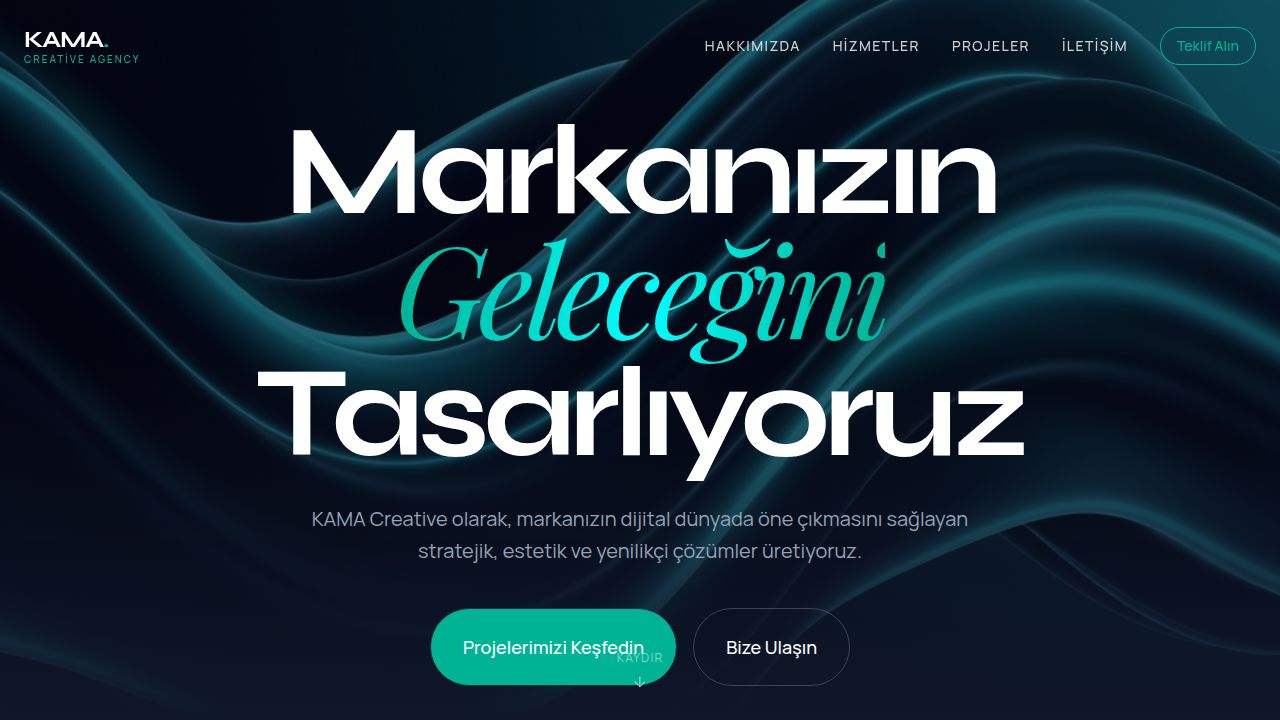
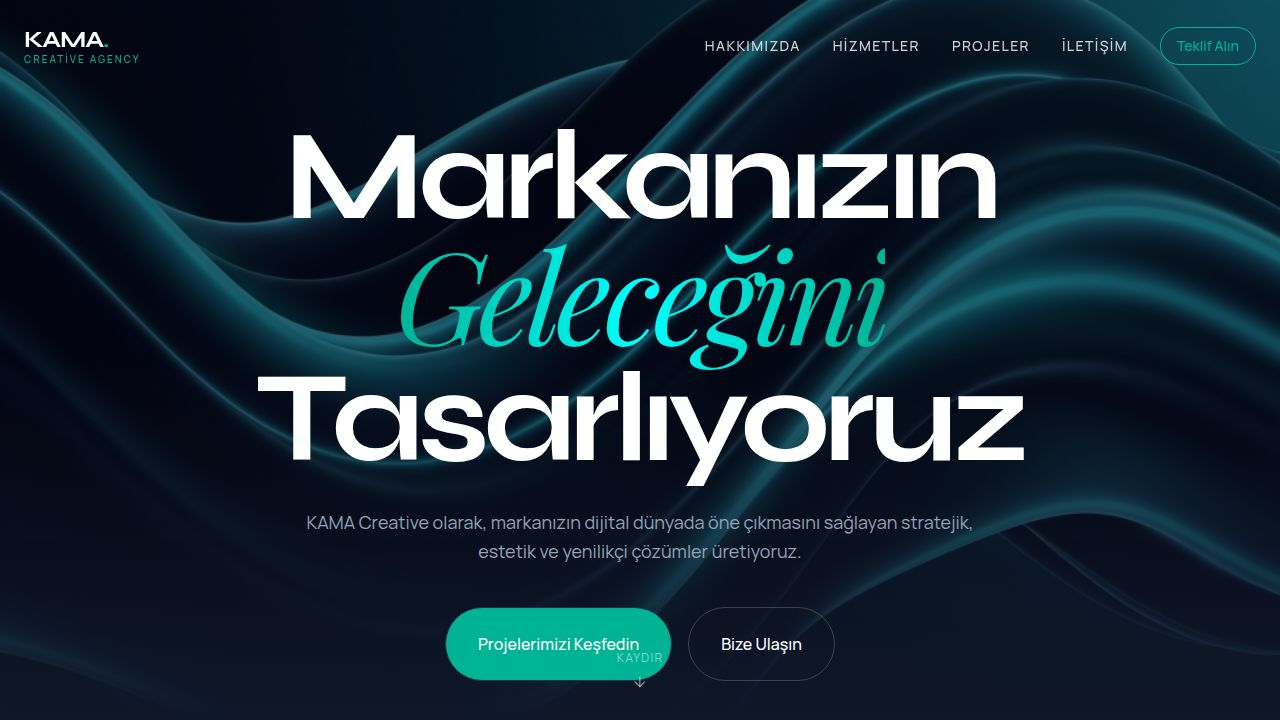
Reduce the size of text in the hero section and buttons
Update paragraph text and button font sizes in the hero section of client/src/components/sections/hero.tsx to improve visual hierarchy.

Replit-Commit-Author: Agent
Replit-Commit-Session-Id: 625a7e5c-b20e-4edc-b66a-3c978ab302cb
Replit-Commit-Checkpoint-Type: full_checkpoint
Replit-Commit-Event-Id: 61ac5a7f-8b92-4610-9608-1e1e1f38b729
Replit-Commit-Screenshot-Url: https://storage.googleapis.com/screenshot-production-us-central1/569067e9-2ef4-4c3d-8651-98e00164b664/625a7e5c-b20e-4edc-b66a-3c978ab302cb/sUQkeYI
Replit-Helium-Checkpoint-Created: true

diff --git a/client/src/components/sections/hero.tsx b/client/src/components/sections/hero.tsx
@@ -31,15 +31,15 @@ export default function Hero() {
               <span className="font-expressive italic font-normal text-gradient-primary">Geleceğini</span> <br />
               Tasarlıyoruz
             </h1>
-            <p className="text-lg md:text-xl text-muted-foreground max-w-2xl mb-10 leading-relaxed text-center">
+            <p className="text-base md:text-lg text-muted-foreground max-w-2xl mb-10 leading-relaxed text-center">
               KAMA Creative olarak, markanızın dijital dünyada öne çıkmasını sağlayan stratejik, estetik ve yenilikçi çözümler üretiyoruz.
             </p>
             
             <div className="flex flex-col sm:flex-row gap-4 justify-center">
-              <Button size="lg" className="rounded-full px-8 py-6 text-lg bg-primary hover:bg-primary/90 text-white font-medium">
+              <Button size="lg" className="rounded-full px-8 py-6 text-base bg-primary hover:bg-primary/90 text-white font-medium">
                 Projelerimizi Keşfedin
               </Button>
-              <Button size="lg" variant="outline" className="rounded-full px-8 py-6 text-lg border-white/20 text-white hover:bg-white/10 hover:text-white">
+              <Button size="lg" variant="outline" className="rounded-full px-8 py-6 text-base border-white/20 text-white hover:bg-white/10 hover:text-white">
                 Bize Ulaşın
               </Button>
             </div>
